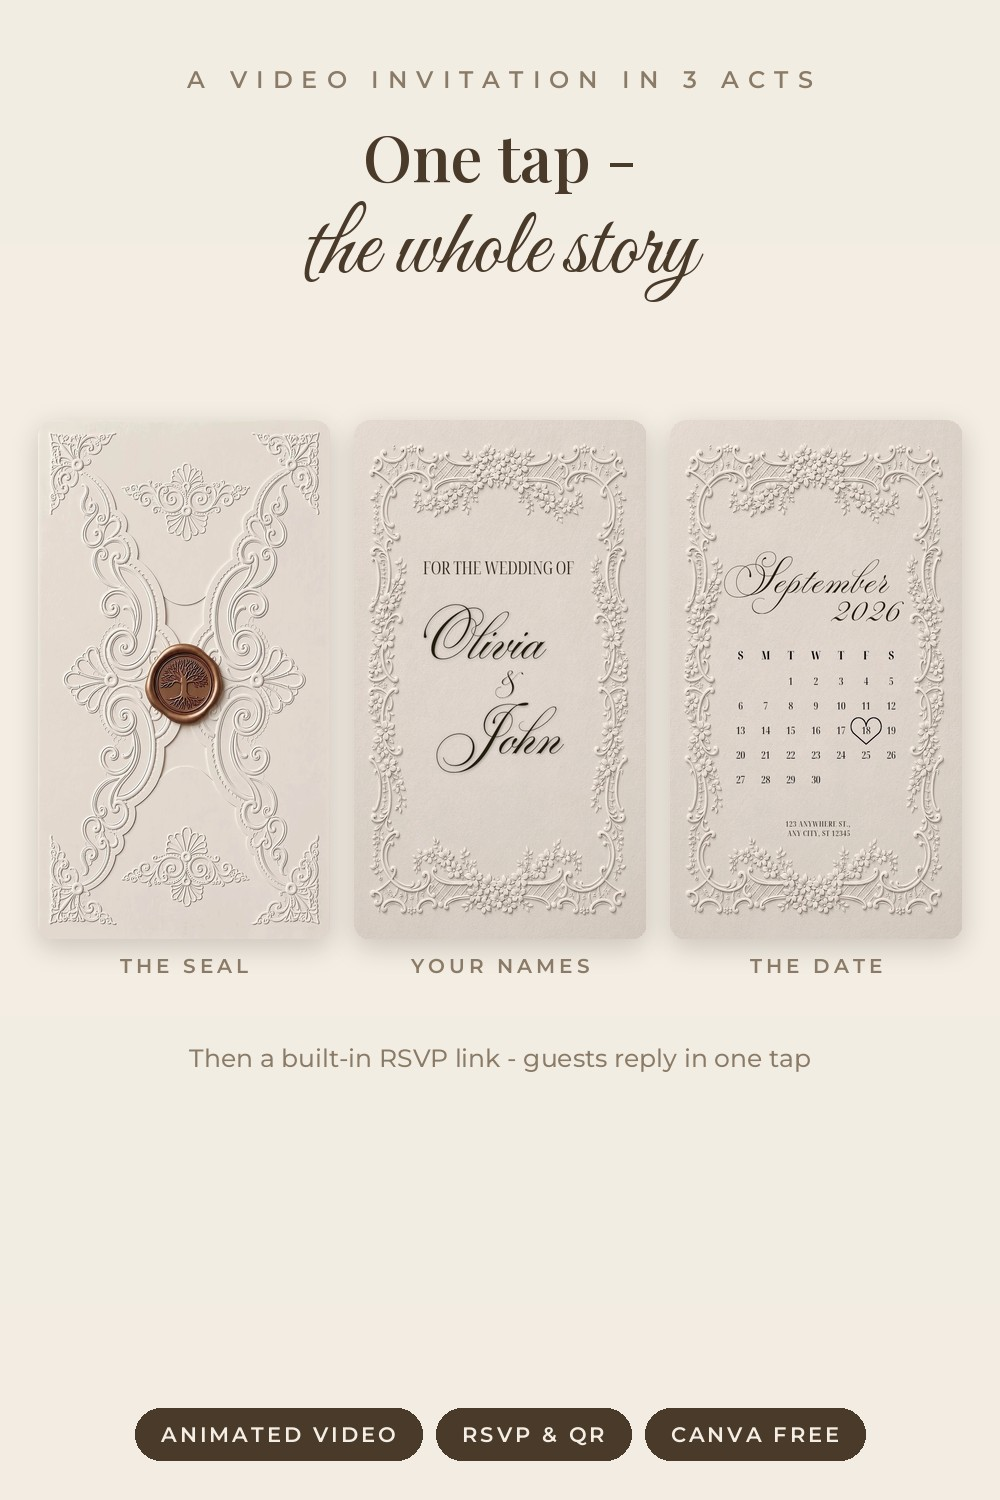
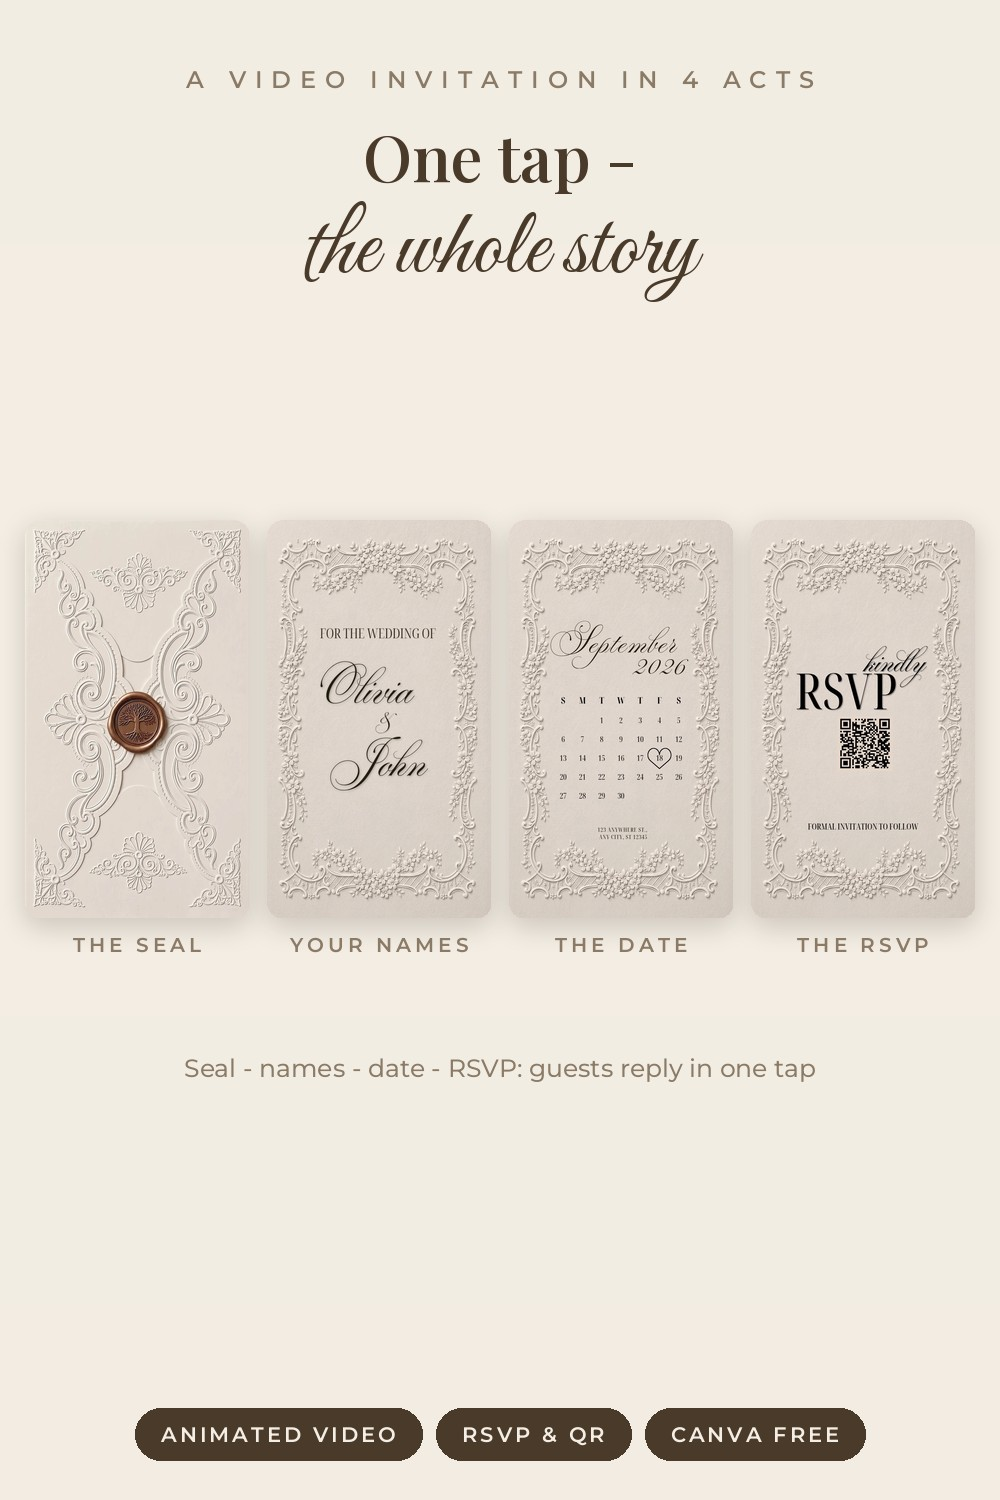
Story pin: add RSVP as a fourth act
Claude-Session: https://claude.ai/code/session_011kmtsDqSjDmuRsYCGyqzjP

diff --git a/pins/ivory-frame-save-the-date/make_pins.py b/pins/ivory-frame-save-the-date/make_pins.py
@@ -74,16 +74,17 @@ def pin_seal():
 def pin_story():
     img = canvas().convert("RGBA")
     d = ImageDraw.Draw(img)
-    eyebrow(d, 64, "A VIDEO INVITATION IN 3 ACTS")
+    eyebrow(d, 64, "A VIDEO INVITATION IN 4 ACTS")
     y = headline(d, 112, ["One tap -"], 64)
     y = script_line(d, y + 2, "the whole story", 94)
-    cards = [("seal", "THE SEAL"), ("names", "YOUR NAMES"), ("calendar", "THE DATE")]
-    cw, ch = 292, 519
-    gap = 24
-    x = (W - (cw * 3 + gap * 2)) / 2
-    y0 = 420
+    cards = [("seal", "THE SEAL"), ("names", "YOUR NAMES"),
+             ("calendar", "THE DATE"), ("rsvp", "THE RSVP")]
+    cw, ch = 224, 398
+    gap = 18
+    x = (W - (cw * len(cards) + gap * (len(cards) - 1))) / 2
+    y0 = 520
     for name, label in cards:
-        crop = fit_frame(name, cw)
+        crop = fit_frame(name, cw).crop((0, 0, cw, ch))
         box = (x, y0, x + cw, y0 + ch)
         img_l = shadow_card(img, box, radius=16, blur=12, alpha=48, offset=(0, 8))
         img.paste(img_l, (0, 0))
@@ -91,7 +92,7 @@ def pin_story():
         d = ImageDraw.Draw(img)
         label_under(d, x + cw / 2, y0 + ch + 14, label)
         x += cw + gap
-    subline(d, 1042, "Then a built-in RSVP link - guests reply in one tap")
+    subline(d, 1052, "Seal - names - date - RSVP: guests reply in one tap")
     pills(d, ["ANIMATED VIDEO", "RSVP & QR", "CANVA FREE"])
     vm.save(img, "pin-story-strip.jpg")
 
